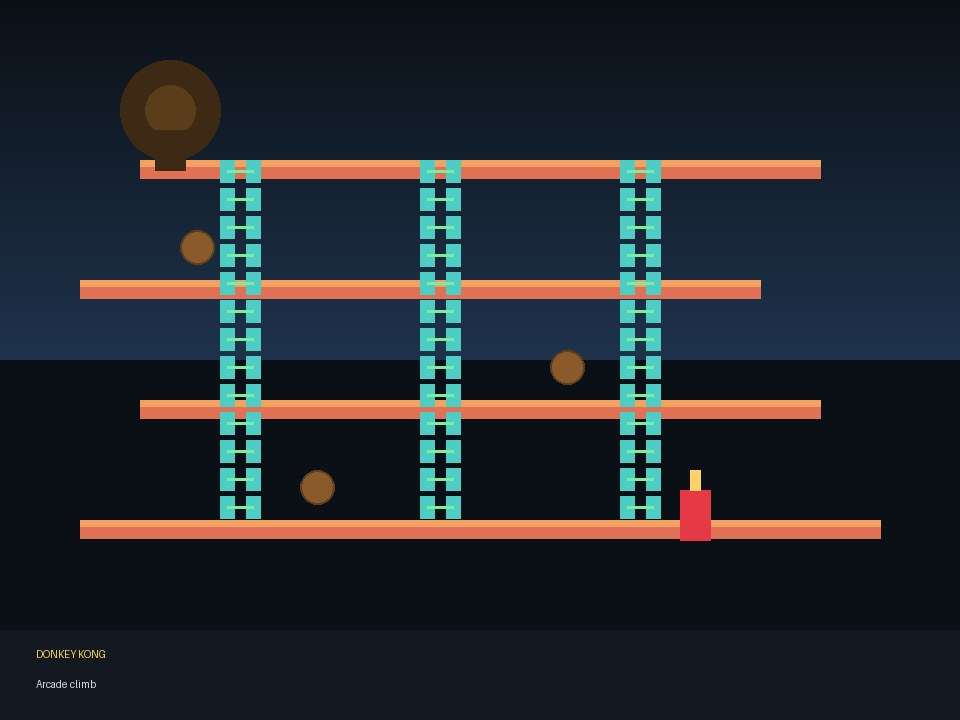
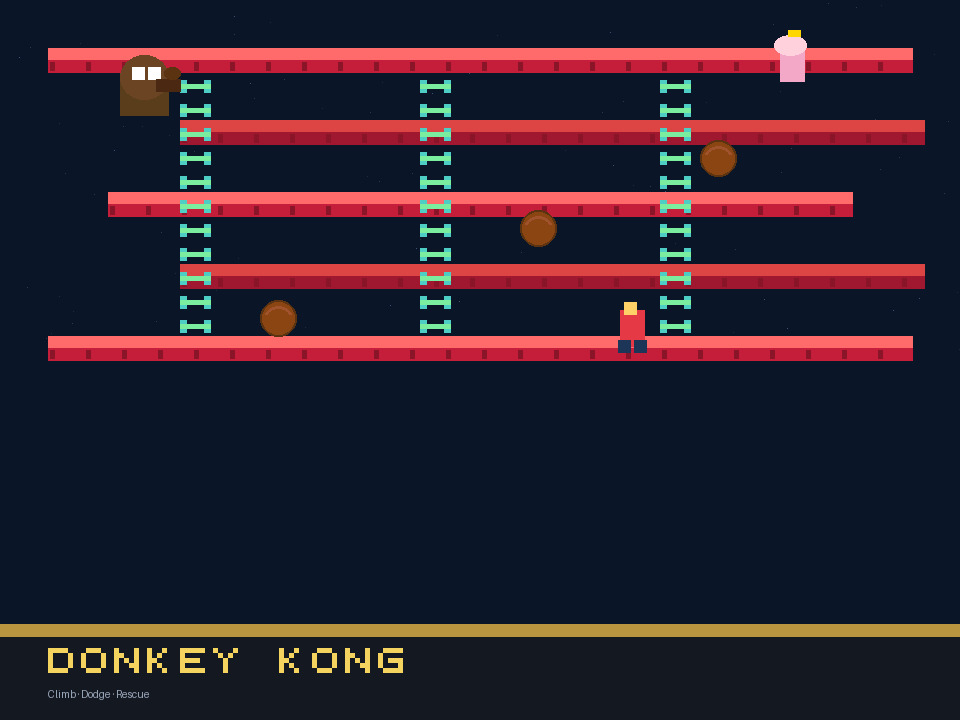
Improve Donkey Kong cover and Games library preview page
Replace the standalone preview with a CRM-style games library page,
regenerate the cover art, and fix canvas sizing in the game mount.

diff --git a/site/app/games/preview-games.html b/site/app/games/preview-games.html
@@ -1,0 +1,151 @@
+<!DOCTYPE html>
+<html lang="en">
+  <head>
+    <meta charset="UTF-8" />
+    <meta name="viewport" content="width=device-width, initial-scale=1.0" />
+    <title>Games preview</title>
+    <link rel="preconnect" href="https://fonts.googleapis.com" />
+    <link rel="preconnect" href="https://fonts.gstatic.com" crossorigin />
+    <link
+      href="https://fonts.googleapis.com/css2?family=Cormorant+Garamond:wght@500;600&family=Outfit:wght@400;500;600&display=swap"
+      rel="stylesheet"
+    />
+    <link rel="stylesheet" href="/app/app.css" />
+    <style>
+      body {
+        margin: 0;
+        min-height: 100vh;
+        background: var(--bg, #0b1016);
+      }
+      .preview-shell {
+        max-width: 1100px;
+        margin: 0 auto;
+        padding: 1.25rem 1rem 2rem;
+      }
+      .preview-shell h1 {
+        margin: 0 0 0.25rem;
+        font: 600 1.35rem/1.2 Outfit, sans-serif;
+        color: var(--ink, #e8edf5);
+      }
+      .preview-shell p {
+        margin: 0 0 1rem;
+        color: rgba(232, 237, 245, 0.72);
+      }
+      #view-games:not([hidden]) {
+        display: block;
+      }
+    </style>
+  </head>
+  <body class="app-body">
+    <div class="preview-shell">
+      <h1>Games library</h1>
+      <p>Preview — same tiles as CRM. Click Donkey Kong to play.</p>
+      <section id="view-games" aria-label="Games"></section>
+    </div>
+    <script type="module">
+      import { mountGame } from "./index.js";
+
+      const GAMES = [
+        {
+          id: "donkey-kong",
+          title: "Donkey Kong",
+          blurb: "Climb the girders, dodge barrels, rescue the prize.",
+          tone: "rust",
+          cover: "/app/games/covers/donkey-kong.jpg",
+          controls: "Left/Right move · Up/Down ladders · Space jump",
+        },
+        {
+          id: "pac-man",
+          title: "Pac-Man",
+          blurb: "Eat the pellets. Don’t get ghosted.",
+          tone: "gold",
+          cover: "/app/games/covers/pac-man.jpg",
+          controls: "Arrow keys",
+        },
+        {
+          id: "tetris",
+          title: "Tetris",
+          blurb: "Rotate, drop, and clear the lines.",
+          tone: "slate",
+          cover: "/app/games/covers/tetris.jpg",
+          controls: "Arrows + Space",
+        },
+      ];
+
+      const root = document.getElementById("view-games");
+      let activeId = null;
+      let handle = null;
+
+      function escapeHtml(s) {
+        return String(s)
+          .replace(/&/g, "&amp;")
+          .replace(/</g, "&lt;")
+          .replace(/>/g, "&gt;")
+          .replace(/"/g, "&quot;");
+      }
+
+      async function openGame(id) {
+        const game = GAMES.find((g) => g.id === id);
+        if (!game) return;
+        if (handle?.destroy) {
+          try {
+            await handle.destroy();
+          } catch (_) {}
+        }
+        handle = null;
+        activeId = id;
+        root.innerHTML = `
+          <div class="games-player">
+            <div class="games-player__bar">
+              <button type="button" class="btn btn-soft games-back-btn" data-back>Back to library</button>
+              <div class="games-player__meta">
+                <strong>${escapeHtml(game.title)}</strong>
+                <p>${escapeHtml(game.controls)}</p>
+              </div>
+            </div>
+            <div class="games-player__stage" id="games-stage" tabindex="0"></div>
+          </div>`;
+        root.querySelector("[data-back]").addEventListener("click", () => {
+          activeId = null;
+          if (handle?.destroy) handle.destroy();
+          handle = null;
+          renderLibrary();
+        });
+        const stage = root.querySelector("#games-stage");
+        handle = await mountGame(id, stage);
+        stage.focus();
+      }
+
+      function renderLibrary() {
+        activeId = null;
+        root.innerHTML = `
+          <div class="games-library">
+            <p class="games-library__lead">Pick a title. Donkey Kong is the new one.</p>
+            <div class="games-grid">
+              ${GAMES.map(
+                (g) => `
+                <button type="button" class="games-tile tone-${g.tone}" data-open="${g.id}">
+                  <span class="games-tile__media">
+                    <img src="${g.cover}" alt="" loading="lazy" width="640" height="480" />
+                  </span>
+                  <span class="games-tile__body">
+                    <span class="games-tile__eyebrow">Play</span>
+                    <strong>${escapeHtml(g.title)}</strong>
+                    <span class="games-tile__blurb">${escapeHtml(g.blurb)}</span>
+                  </span>
+                </button>`
+              ).join("")}
+            </div>
+          </div>`;
+        root.querySelectorAll("[data-open]").forEach((btn) => {
+          btn.addEventListener("click", () => openGame(btn.dataset.open));
+        });
+      }
+
+      renderLibrary();
+      if (new URLSearchParams(location.search).get("play") === "donkey-kong") {
+        openGame("donkey-kong");
+      }
+    </script>
+  </body>
+</html>

diff --git a/site/app/games/donkey-kong.js b/site/app/games/donkey-kong.js
@@ -34,6 +34,10 @@ function platformLayout(w, h, dpr) {
 }
 
 export function mountDonkeyKong(root) {
+  root.style.position = "relative";
+  root.style.width = "100%";
+  root.style.height = "100%";
+  root.style.minHeight = "inherit";
   const canvas = document.createElement("canvas");
   const hud = document.createElement("div");
   hud.className = "games-hud";
